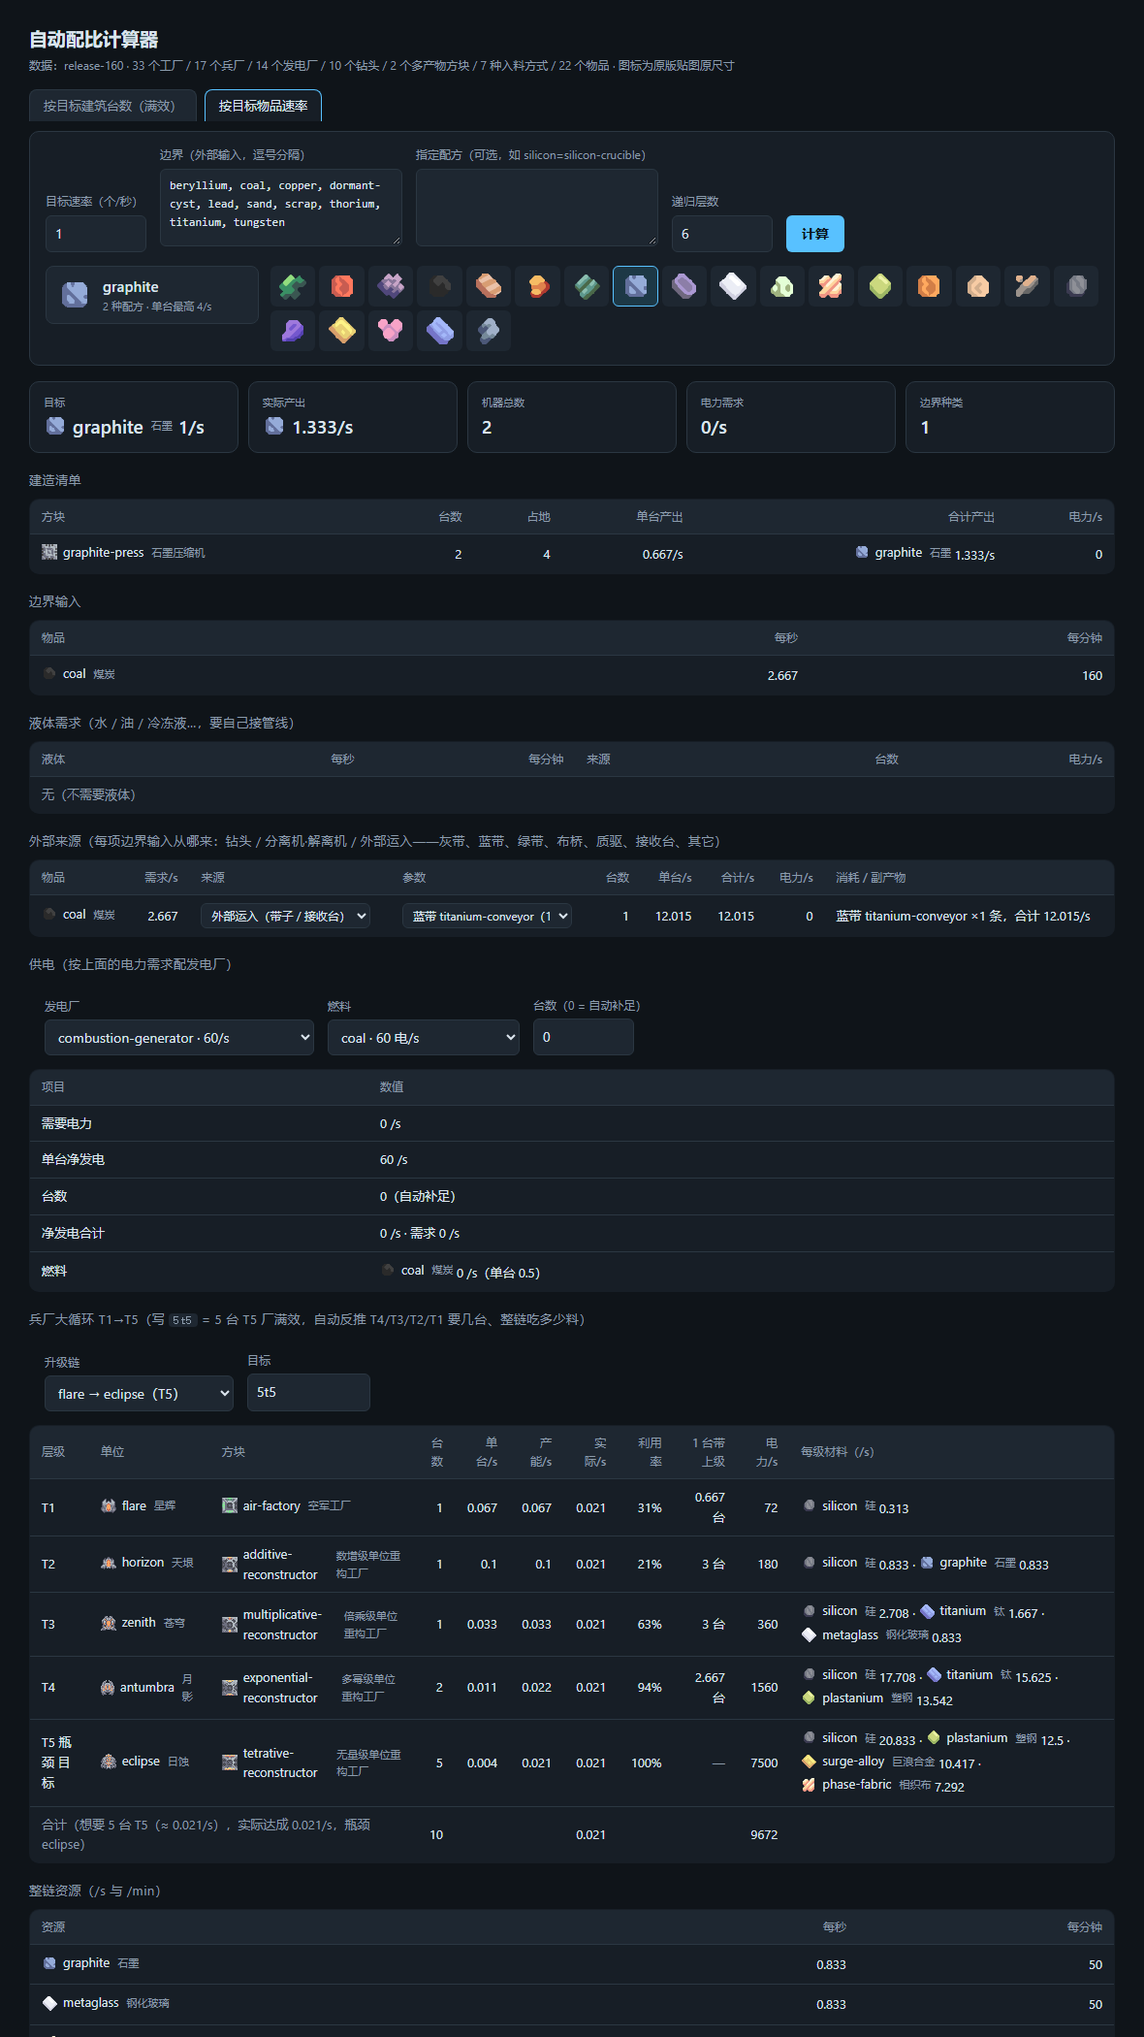
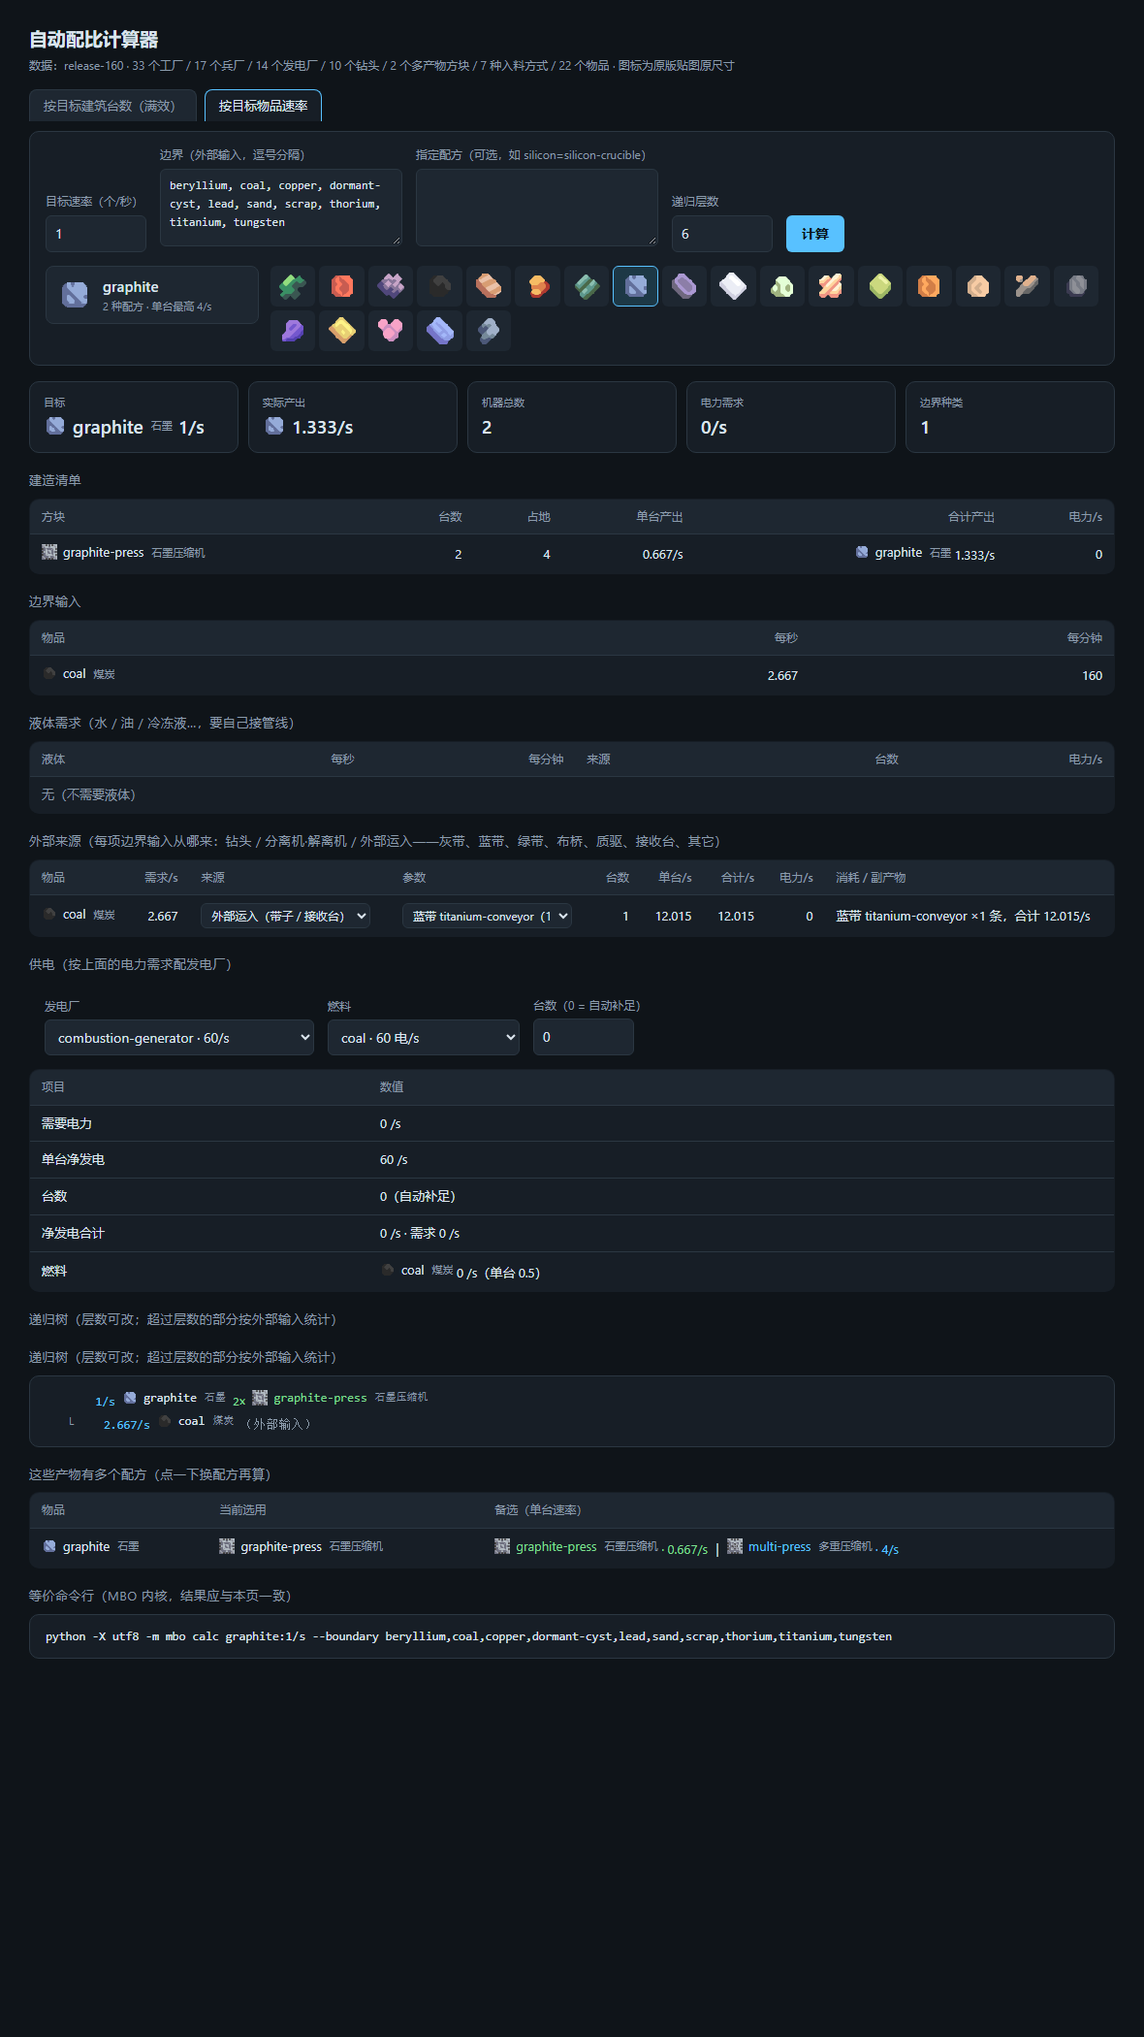
feat(ratio-calc): 兵厂链并进按目标建筑台数页（选兵厂+台数直接出 T1-T5 大循环）

diff --git a/ratio-calc/index.html b/ratio-calc/index.html
@@ -178,19 +178,17 @@
     </div>
     <table id="powertable"></table>
 
-    <div class="mode-item hidden" id="chainsec">
-      <div class="sec">兵厂大循环 T1→T5（写 <code>5t5</code> = 5 台 T5 厂满效，自动反推 T4/T3/T2/T1 要几台、整链吃多少料）</div>
-      <div class="bar" id="chainbar">
-        <div><label for="chain">升级链</label><select id="chain"></select></div>
-        <div><label for="chainexpr">目标</label><input id="chainexpr" type="text" size="12" value="5t5"
-             title="5t5 = 5 台 T5 厂满效；也可以直接写每秒几个，如 0.02"></div>
+    <div class="mode-block hidden" id="chainsec">
+      <div class="sec">兵厂大循环 T1→T5（选中兵厂 + 台数就自动反推：下面各级要几台、整链吃多少料）</div>
+      <div class="bar" id="chainlinebar" style="display:none">
+        <div><label for="chainline">升级线</label><select id="chainline"></select></div>
       </div>
       <table id="chaintable"></table>
       <div class="sec" id="chainressec">整链资源（/s 与 /min）</div>
       <table id="chainres"></table>
     </div>
 
-    <div class="sec">递归树（层数可改；超过层数的部分按外部输入统计）</div>
+    <div class="sec">递归树（层数可改；超过层数的部分按外部输入统计）</div>    <div class="sec">递归树（层数可改；超过层数的部分按外部输入统计）</div>
     <div class="tree" id="tree"></div>
 
     <div class="sec">这些产物有多个配方（点一下换配方再算）</div>
@@ -307,10 +305,6 @@
     if (idx.generators.has("combustion-generator")) el("gen").value = "combustion-generator";
     syncGenFuel();
 
-    el("chain").innerHTML = idx.unitChains.map(function (c) {
-      return '<option value="' + esc(c.start) + '">' + esc(c.start) + " → " +
-        esc(c.tiers[c.tiers.length - 1].unit) + "（T" + c.tiers.length + "）</option>";
-    }).join("");
   })();
 
   /* ---- 液体需求表：水 / 油 / 冷冻液…，这些得自己接管线 ---- */
@@ -502,31 +496,73 @@
   }
 
   /* ---- 兵厂 T1→T5 大循环表 ---- */
-  /* 「5t5」= 5 台 T5 厂满效；也可以写每秒几个单位（0.02） */
-  function parseChainExpr(text) {
-    var s = String(text == null ? "" : text).trim();
-    var m = /^(\d+(?:\.\d+)?)\s*[x×*]?\s*t\s*([1-5])$/i.exec(s);
-    if (m) return { kind: "count", count: parseFloat(m[1]), tier: parseInt(m[2], 10) };
-    var r = parseFloat(s);
-    return { kind: "rate", rate: r > 0 ? r : 0.01 };
+  /* 选中的是兵厂（unit 类）时，直接按「该厂 × 台数」走大循环，不用另填链与目标 */
+  function chainForSelected() {
+    var b = blockOf(curBlock);
+    if (!b || b.kind !== "unit") return null;
+    var count = Math.max(1, parseInt(el("count").value, 10) || 1);
+    var b0 = blockOf(curBlock);
+    var line = "";
+    if (b0 && b0.plans && b0.plans.length > 1) {
+      var pi = parseInt(el("plan").value || "0", 10) || 0;
+      line = b0.plans[pi] ? b0.plans[pi].unit : "";
+    } else {
+      line = el("chainline").value || "";
+    }
+    return R.chainFromBlock(DATA, curBlock, count, line ? { chainStart: line } : null);
   }
 
-  function chainFor(start, expr) {
-    var e = parseChainExpr(expr);
-    if (e.kind === "count") return R.chainFromTop(DATA, start, e.tier, e.count);
-    return R.unitChain(DATA, start, e.rate);
+  /* 同一个重建厂能升多条线时，给个下拉选；只有一条就藏起来 */
+  function renderChainLine() {
+    var bar = el("chainlinebar"), sel = el("chainline");
+    var cands = (R.chainsForBlock && R.chainsForBlock(DATA, curBlock)) || [];
+    var b0 = blockOf(curBlock);
+    /* 单位工厂本身有「生产计划」下拉（dagger/crawler/nova），就不要再重复给升级线 */
+    if (b0 && b0.plans && b0.plans.length > 1) cands = [];
+    if (cands.length <= 1) {
+      if (bar) bar.style.display = "none";
+      sel.innerHTML = "";
+      el("chainline").value = "";
+      return;
+    }
+    var keep = sel.value;
+    sel.innerHTML = cands.map(function (c) {
+      return '<option value="' + esc(c.start) + '">' + esc(c.start) + " → " + esc(c.top) +
+        "（T1→T" + c.tiers + "）</option>";
+    }).join("");
+    if (keep && cands.some(function (c) { return c.start === keep; })) el("chainline").value = keep;
+    if (bar) bar.style.display = "";
+  }
+
+  /* 把链结果摊成和 expandBuilding 一样的结果结构，供机器表/边界表/电力复用 */
+  function chainToRes(ch) {
+    var machines = {};
+    ch.rows.forEach(function (r) { if (r.count > 0) machines[r.block] = (machines[r.block] || 0) + r.count; });
+    /* 目标级自己的产出（满效产能），不是整链最慢段的达成值 */
+    var mine = ch.rows.filter(function (r) { return r.tier === ch.topTier; })[0];
+    var made = mine ? mine.capacity : ch.achieved;
+    return {
+      mode: "chain", block: curBlock, count: ch.topCount, machines: machines,
+      demand: ch.materials, power: ch.power,
+      products: [{ name: mine ? mine.unit : ch.top, type: "unit", rate: made }],
+      achieved: ch.achieved, chain: ch, tree: null, order: [], warnings: []
+    };
   }
 
   function renderChain() {
-    var start = el("chain").value;
-    if (!start) { el("chaintable").innerHTML = ""; el("chainres").innerHTML = ""; return; }
-    var ch;
-    try { ch = chainFor(start, el("chainexpr").value); }
-    catch (e) {
-      el("chaintable").innerHTML = '<tr><td class="dim">' + esc(e.message) + "</td></tr>";
+    var sec = el("chainsec");
+    var ch = null;
+    try { ch = chainForSelected(); } catch (e) { ch = null; }
+    if (!ch) {
+      if (sec && sec.classList) sec.classList.add("hidden");
+      if (el("chainlinebar")) el("chainlinebar").style.display = "none";
+      el("chaintable").innerHTML = "";
       el("chainres").innerHTML = "";
-      return;
+      return null;
     }
+    if (sec && sec.classList) sec.classList.remove("hidden");
+    renderChainLine();
+
     var counted = ch.topCount != null;
     var isTop = function (r) { return counted && r.tier === ch.topTier; };
     var h = '<tr><th>层级</th><th>单位</th><th>方块</th><th class="num">台数</th>' +
@@ -540,13 +576,13 @@
         (isTop(r) ? ' <span class="tag">目标</span>' : "") + "</td><td>" + unitLabel(r.unit) +
         "</td><td>" + blockLabel(r.block) + "</td>" +
         '<td class="num">' + r.count + '</td><td class="num">' + num(r.perSecond) + "</td>" +
-        '<td class="num">' + num(r.capacity) + '</td><td class="num">' + num(r.actual) + "</td>" +
-        '<td class="num">' + Math.round((r.utilization || 0) * 100) + '%</td>' +
+        '<td class="num">' + (dim ? "—" : num(r.capacity)) + '</td><td class="num">' + (dim ? "—" : num(r.actual)) + "</td>" +
+        '<td class="num">' + (dim ? "—" : Math.round((r.utilization || 0) * 100) + "%") + '</td>' +
         '<td class="num">' + (r.feedsNext ? num(r.feedsNext) + " 台" : '<span class="dim">—</span>') + "</td>" +
         '<td class="num">' + num(r.power) + "</td>" +
-        "<td>" + (r.items.length ? r.items.map(function (i) {
+        "<td>" + (dim ? "不建" : (r.items.length ? r.items.filter(function (i) { return i.perSecond > 0; }).map(function (i) {
           return itemLabel(i.name, "sm") + " " + num(i.perSecond);
-        }).join(" · ") : "—") + "</td></tr>";
+        }).join(" · ") : "—")) + "</td></tr>";
     }).join("");
     var totalMachines = ch.rows.reduce(function (a, r) { return a + r.count; }, 0);
     var wantText = counted
@@ -559,8 +595,7 @@
       '<td class="num">' + num(ch.power) + "</td><td></td></tr>";
     el("chaintable").innerHTML = h + rows;
 
-    /* 整链资源：把每一级的材料汇总成 /s 与 /min */
-    var mk = Object.keys(ch.materials);
+    var mk = Object.keys(ch.materials).filter(function (k) { return ch.materials[k] > 0; });
     var mh = '<tr><th>资源</th><th class="num">每秒</th><th class="num">每分钟</th></tr>';
     var mbody = mk.map(function (k) {
       return '<tr><td>' + itemLabel(k) + '</td><td class="num">' + num(ch.materials[k]) +
@@ -570,7 +605,8 @@
       '</td><td class="num dim">—</td></tr>' +
       '<tr><td class="dim">电力</td><td class="num">' + num(ch.power) +
       '</td><td class="num dim">—</td></tr>';
-    el("chainres").innerHTML = mh + (mk.length ? mbody : mbody);
+    el("chainres").innerHTML = mh + mbody;
+    return ch;
   }
 
 
@@ -731,9 +767,23 @@
     if (q.gen && idx.generators.has(q.gen)) { el("gen").value = q.gen; syncGenFuel(); }
     if (q.genfuel) el("genfuel").value = q.genfuel;
     if (q.gencount) el("gencount").value = q.gencount;
-    if (q.chain) el("chain").value = q.chain;
-    if (q.chainexpr) el("chainexpr").value = q.chainexpr;
-    else if (q.chainrate) el("chainexpr").value = q.chainrate;
+    // 兵厂链：?chain=dagger&chainexpr=5t5 等价于「选中第 5 级兵厂 + 台数 5」
+    if (q.chain) {
+      var chainHit = (idx.unitChains || []).filter(function (c) { return c.start === q.chain; })[0];
+      if (chainHit) {
+        var expr = chainLink(q.chainexpr || q.chainrate || "");
+        if (expr.tier && chainHit.tiers[expr.tier - 1]) {
+          curBlock = chainHit.tiers[expr.tier - 1].block;
+          el("count").value = String(Math.max(1, expr.count));
+          mode = "building";
+        } else if (expr.rate) {
+          var topT = chainHit.tiers[chainHit.tiers.length - 1];
+          curBlock = topT.block;
+          el("count").value = String(Math.max(1, Math.ceil(expr.rate / topT.perSecond - 1e-9)));
+          mode = "building";
+        }
+      }
+    }
     // 外部来源：?src=sand:drill:laser-drill:8:1,scrap:multi:disassembler,water:pump:rotary-pump
     // 同一个 key 可以出现多次（?src=a&src=b），先拼成一个数组再拆
     var srcList = q.src === undefined ? [] : (Array.isArray(q.src) ? q.src : [q.src]);
@@ -774,6 +824,15 @@
     });
     return out;
   }
+  /* 「5t5」→ {tier:5, count:5}；「0.02」→ {rate:0.02} */
+  function chainLink(text) {
+    var t = String(text == null ? "" : text).trim();
+    var m = /^(\d+(?:\.\d+)?)\s*[x×*]?\s*t\s*([1-5])$/i.exec(t);
+    if (m) return { tier: parseInt(m[2], 10), count: parseFloat(m[1]) };
+    var r = parseFloat(t);
+    return { rate: r > 0 ? r : 0, tier: 0, count: 1 };
+  }
+
   function num(x) { return (Math.round(x * 1000) / 1000).toString(); }
   function esc(s) { return String(s).replace(/&/g, "&amp;").replace(/</g, "&lt;"); }
 
@@ -788,7 +847,10 @@
       if (mode === "building") {
         var count = Math.max(1, parseInt(el("count").value, 10) || 1);
         var plan = parseInt(el("plan").value || "0", 10) || 0;
-        res = R.expandBuilding(DATA, curBlock, count, { boundary: boundary, force: forced, plan: plan, maxDepth: depth });
+        var selB = blockOf(curBlock);
+        var ch = (selB && selB.kind === "unit") ? R.chainFromBlock(DATA, curBlock, count) : null;
+        res = ch ? chainToRes(ch)
+                 : R.expandBuilding(DATA, curBlock, count, { boundary: boundary, force: forced, plan: plan, maxDepth: depth });
       } else {
         var rate = parseFloat(el("rate").value);
         if (!(rate > 0)) { alert("速率要大于 0"); return; }
@@ -813,7 +875,8 @@
       }).join(" · ");
       cards = [
         ["目标建筑", blockImg(curBlock, 18) + ' <span class="name">' + esc(curBlock) + '</span>', "wrap"],
-        ["台数", "× " + res.count + "（满效）"],
+        ["台数", "× " + res.count + (res.mode === "chain"
+          ? "（T" + res.chain.topTier + " 级，满效）" : "（满效）")],
         ["产出", prodText || "—", "wrap"],
         ["机器总数", String(totalMachines)],
         ["电力需求", num(res.power) + "/s"],
@@ -862,7 +925,9 @@
     renderPower(res.power);
     renderChain();
 
-    el("tree").innerHTML = renderTree(res.tree, 0, true);
+    el("tree").innerHTML = res.tree
+      ? renderTree(res.tree, 0, true)
+      : '<div class="dim">兵厂链没有物品递归树，见上方大循环表。</div>';
 
     // 多配方物品：哪个被选中、备选是谁
     var used = Object.keys(res.machines);
@@ -984,8 +1049,7 @@
   el("gen").addEventListener("change", function () { syncGenFuel(); if (lastRes) renderPower(lastRes.power); });
   el("genfuel").addEventListener("change", function () { if (lastRes) renderPower(lastRes.power); });
   el("gencount").addEventListener("change", function () { if (lastRes) renderPower(lastRes.power); });
-  el("chain").addEventListener("change", renderChain);
-  el("chainexpr").addEventListener("change", renderChain);
+  el("chainline").addEventListener("change", function () { renderChain(); });
 
   // 测试钩子：无浏览器环境里手动切模式 / 触发计算
   window.__ratio = { setMode: setMode, run: run, mode: function () { return mode; },
@@ -1003,15 +1067,21 @@
                        return el("powertable").innerHTML;
                      },
                      chain: function (start, rate) {
-                       if (start) el("chain").value = start;
-                       if (rate) el("chainexpr").value = String(rate);
-                       renderChain();
+                       var ch = (idx.unitChains || []).filter(function (c) { return c.start === start; })[0];
+                       if (!ch) return "";
+                       var top = ch.tiers[ch.tiers.length - 1];
+                       var n = Math.max(1, Math.ceil(rate / top.perSecond - 1e-9));
+                       curBlock = top.block;
+                       el("count").value = String(n);
+                       setMode("building");
                        return el("chaintable").innerHTML;
                      },
                      chainTop: function (start, tier, count) {
-                       if (start) el("chain").value = start;
-                       el("chainexpr").value = (count || 1) + "t" + (tier || 5);
-                       renderChain();
+                       var ch = (idx.unitChains || []).filter(function (c) { return c.start === start; })[0];
+                       if (!ch || !ch.tiers[(tier || 5) - 1]) return { table: "", res: "" };
+                       curBlock = ch.tiers[(tier || 5) - 1].block;
+                       el("count").value = String(Math.max(1, count || 1));
+                       setMode("building");
                        return { table: el("chaintable").innerHTML, res: el("chainres").innerHTML };
                      },
                      chainRes: function () { return el("chainres").innerHTML; },

diff --git a/ratio-calc/core.js b/ratio-calc/core.js
@@ -680,6 +680,41 @@
     return unitChain(data, startUnit, 0, cfg);
   }
 
+  /* 默认优先挑这些“正统地面线”：一个方块的同一个工厂可以服务多条升级线（如 tetrative 同时升地面/空军/机甲） */
+  var CHAIN_PREF = ["dagger", "nova", "crawler", "flare", "mono", "risso", "retusa", "stell", "merui", "elude"];
+
+  /* 这个方块可能属于几条链？（每条给出 {start, tier}） */
+  function chainsForBlock(data, blockName) {
+    var idx = indexOf(data);
+    var out = [];
+    (idx.unitChains || []).forEach(function (ch) {
+      for (var i = 0; i < ch.tiers.length; i++) {
+        if (ch.tiers[i].block === blockName) {
+          out.push({ start: ch.start, top: ch.top, tier: i + 1, tiers: ch.tiers.length });
+          break;
+        }
+      }
+    });
+    out.sort(function (a, b) {
+      var ia = CHAIN_PREF.indexOf(a.start), ib = CHAIN_PREF.indexOf(b.start);
+      if (ia < 0) ia = 99;
+      if (ib < 0) ib = 99;
+      return (ia - ib) || (a.start < b.start ? -1 : 1);
+    });
+    return out;
+  }
+
+  /* 按「选了哪个兵厂 + 几台」走大循环：在该方块所在的链上定位层级，再交给 chainFromTop */
+  function chainFromBlock(data, blockName, count, opts) {
+    var cands = chainsForBlock(data, blockName);
+    if (!cands.length) return null;
+    var pick = cands[0];
+    if (opts && opts.chainStart) {
+      cands.forEach(function (c) { if (c.start === opts.chainStart) pick = c; });
+    }
+    return chainFromTop(data, pick.start, pick.tier, count, opts);
+  }
+
   /* 机器清单带来的液体需求（每秒）：方块/兵厂/多产物方块的输入液体 + 钻头加速液 */
   function liquidDemand(idx, machines, extra) {
     var acc = {};
@@ -879,6 +914,7 @@
               drillRate: drillRate, drillsNeeded: drillsNeeded,
               generatorPlan: generatorPlan, generatorSupply: generatorSupply,
               separatorPlan: separatorPlan, unitChain: unitChain, chainFromTop: chainFromTop,
+              chainFromBlock: chainFromBlock, chainsForBlock: chainsForBlock,
               pumpPlan: pumpPlan,
               applySources: applySources, recalcPower: recalcPower,
               liquidDemand: liquidDemand };

diff --git a/ratio-calc/card.py b/ratio-calc/card.py
@@ -191,7 +191,11 @@ def build_card(res: dict) -> Card:
                                                             fmt(ch.get("power")), snap))
         c.section("各级兵厂（台数按各自建造时间，不必 1:1）")
         for r in ch["rows"]:
-            mat = "、".join("%s %s/s" % (i["name"], fmt(i["perSecond"])) for i in r.get("items") or [])
+            if not r.get("count"):
+                c.note("  T%s  %s ×0（不建）" % (r["tier"], r["block"]), DIM)
+                continue
+            mat = "、".join("%s %s/s" % (i["name"], fmt(i["perSecond"]))
+                           for i in r.get("items") or [] if i.get("perSecond", 0) > 0)
             right = "%s %s/s" % (r["unit"], fmt(r["actual"]))
             if r.get("feedsNext"):
                 right += " · 1 台带 %s 台上级" % fmt(r["feedsNext"])
@@ -206,6 +210,8 @@ def build_card(res: dict) -> Card:
                    % (fmt(ch.get("achieved")), ch.get("bottleneckTier"), ch["bottleneck"]), DIM)
         c.section("合计材料（/s · /min）")
         for k, v in sorted((ch.get("materials") or {}).items()):
+            if v <= 0:
+                continue
             c.row(None, k, "%s/s · %s/min" % (fmt(v), fmt(v * 60)))
         return c
 

diff --git a/ratio-calc/_shots.py b/ratio-calc/_shots.py
@@ -17,9 +17,9 @@ shots = [
     ("screenshot-multi-power.png",
      "?mode=building&block=silicon-smelter&count=3&depth=4&boundary=coal,sand"
      "&src=sand:multi:disassembler&gen=steam-generator&genfuel=coal&gencount=0", "1180,2200"),
-    ("screenshot-unit-factory.png", "?mode=building&block=ground-factory&count=1&depth=4", "1180,2100"),
+    ("screenshot-unit-factory.png", "?mode=building&block=ground-factory&count=2&depth=4", "1180,2200"),
     ("screenshot-unit-chain.png",
-     "?mode=item&item=silicon&rate=1&chain=dagger&chainexpr=5t5", "1180,2600"),
+     "?mode=building&block=tetrative-reconstructor&count=5&depth=4", "1180,2700"),
     ("screenshot-item-via.png",
      "?mode=item&item=graphite&rate=1&src=coal:belt:belt-blue", "1180,2100"),
     ("screenshot-pump.png",

diff --git a/docs/本地知识库.md b/docs/本地知识库.md
@@ -3,7 +3,7 @@
 > 给 mlog 工具链配的离线检索库：把仓库里的规范、SKILL、工具源码切成块，做**向量 + 全文混合召回**，可选 cross-encoder 重排。
 > 目的：让“查一条规则/一个命令/一处源码”从“翻文件 + 猜关键词”变成一次带出处的检索，减少每轮塞进上下文的原文。
 
-当前状态（2026-11-08，补入料方式与兵厂链台数口径之后重建）：**7189 块 / 59 个文件**（含 `docs/游戏速查/`），索引在 `out/_kb/kb.sqlite3`。
+当前状态（2026-11-08，兵厂链并进「按目标建筑台数」页之后重建）：**7190 块 / 59 个文件**（含 `docs/游戏速查/`），索引在 `out/_kb/kb.sqlite3`。
 
 ---
 
